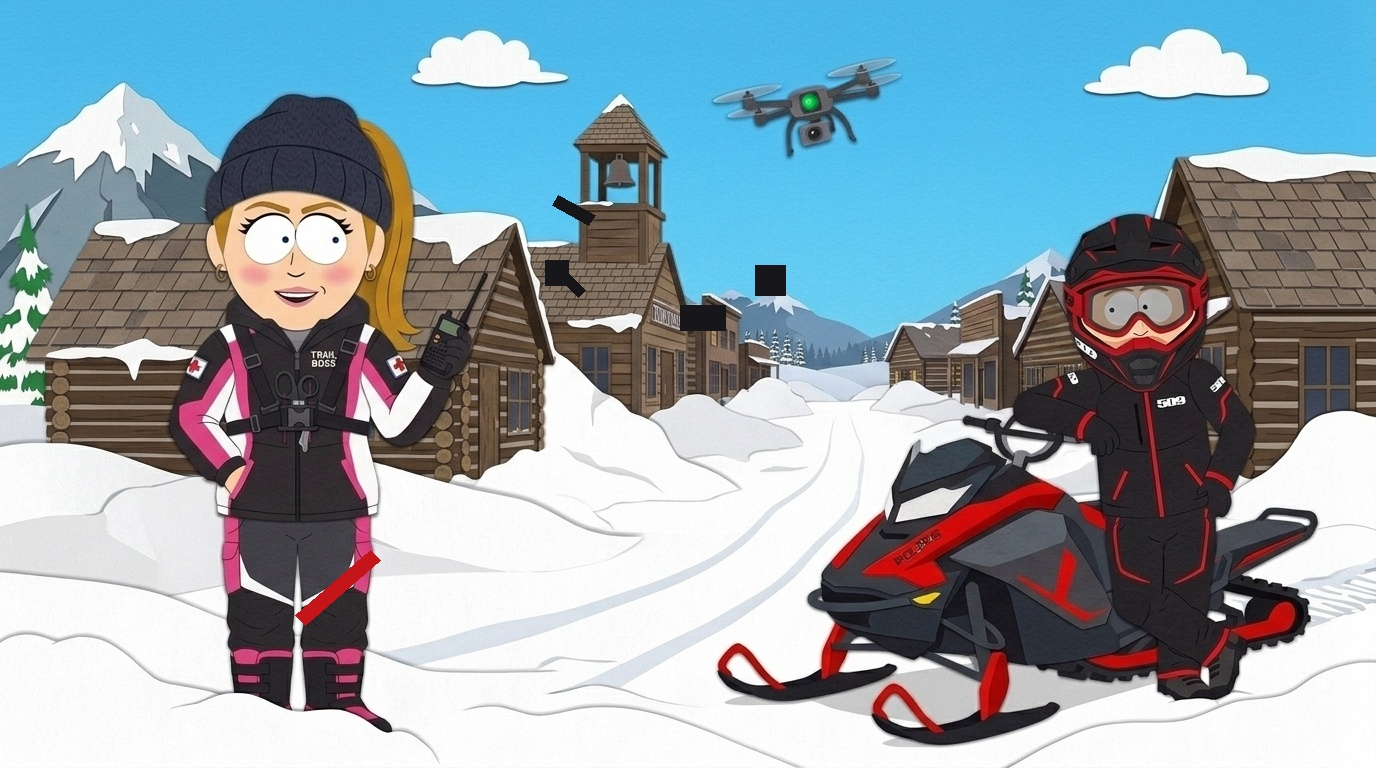
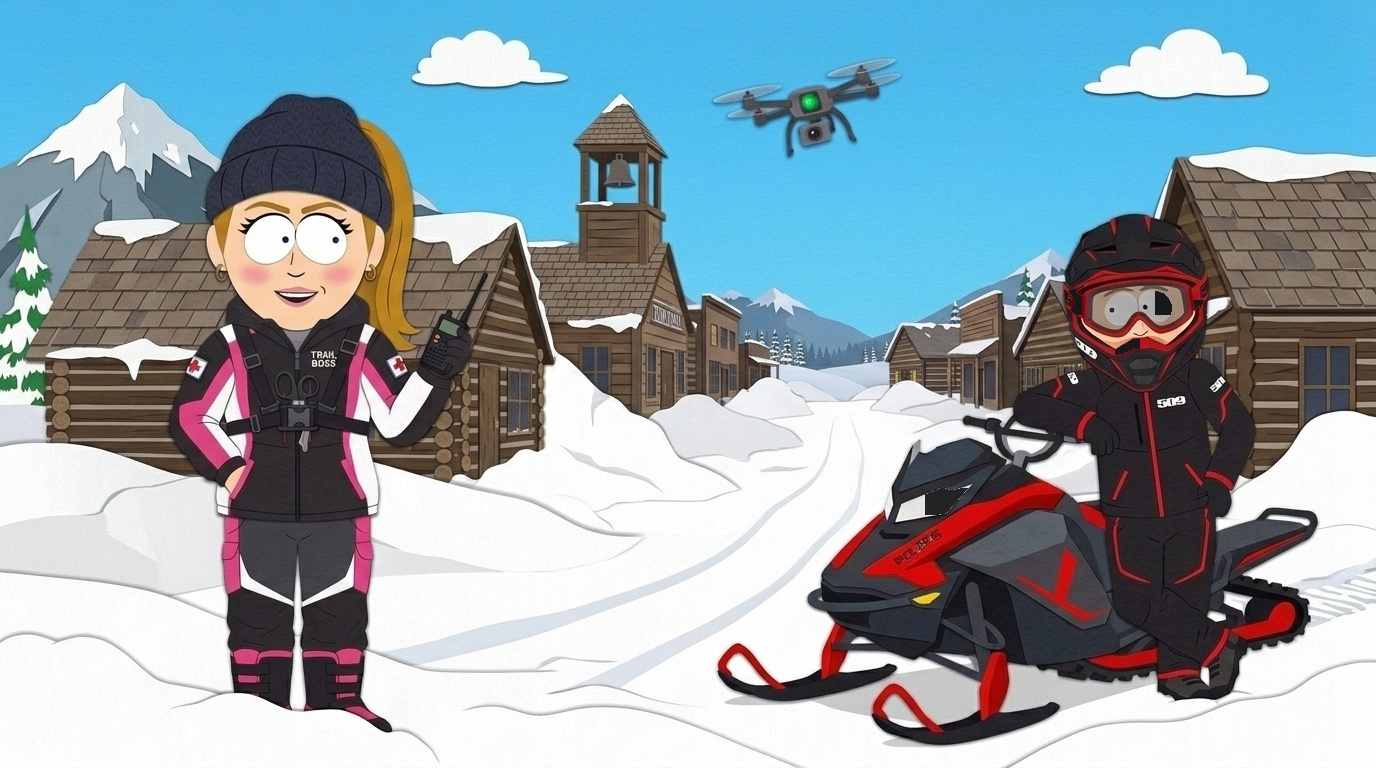
Restore and publish clean Shots 1.2, 4.2, and 5.1 brand-free

diff --git a/scenes.html b/scenes.html
@@ -108,8 +108,7 @@ footer p{margin:0;opacity:.85;font-size:15px}
     </article>
 
     <!-- Shot 1.2 -->
-    <!-- HIDDEN pending logo fix (Shot 1.2)
-<article class="shot-card">
+    <article class="shot-card">
       <div class="shot-media">
         <img src="scene-1-2.jpg" alt="Shot 1.2: The Big Shop Interior Master" loading="lazy">
       </div>
@@ -121,7 +120,6 @@ footer p{margin:0;opacity:.85;font-size:15px}
       <p class="shot-desc">Anvill locks down his custom black-and-red mountain sled in the shop bay with yellow ratchet straps. Ridge Glider sips boiling coffee in his helmet and peak-reflection goggles, while Angel monitors telemetry from the steel workbench in her miniature dial-lace boots.</p>
       <blockquote class="quote"><b>Angel:</b> "Current telemetry on Tincup Pass: fourteen below, sustained winds forty-two knots, and the avalanche advisory is simply: 'DON'T.'"</blockquote>
     </article>
-    -->
 
     <!-- Shot 1.5 -->
     <article class="shot-card">
@@ -264,8 +262,7 @@ footer p{margin:0;opacity:.85;font-size:15px}
     </article>
 
     <!-- Scene 4, Shot 4.2 -->
-    <!-- HIDDEN pending logo fix (Shot 4.2)
-<article class="shot-card">
+    <article class="shot-card">
       <div class="shot-media">
         <img src="scene-4-2.jpg" alt="Shot 4.2: Woody's Monster Deadlift" loading="lazy">
       </div>
@@ -277,7 +274,6 @@ footer p{margin:0;opacity:.85;font-size:15px}
       <p class="shot-desc">Hillbilly's clunker shreds a drive belt in waist-deep powder. Woody calmly steps into the snow trench and bare-hand deadlifts the entire 450-pound snowmobile waist-high with raw timber-bucking strength, holding it rock-steady while Anvill drops to his knees swapping the belt NASCAR-pit-crew style.</p>
       <blockquote class="quote"><b>Woody (holding 450-lb sled waist-high):</b> "Hurry up, Anvill. Arms are gettin' cold. Still got that cord of seasoned lodgepole if you change your mind, Ridge."<br><b>Hillbilly (holding baling wire):</b> "Told ya Woody was good for somethin'! Best wood hauler in Park County!"</blockquote>
     </article>
-    -->
 
     <!-- Scene 4, Shot 4.3 -->
     <article class="shot-card">
@@ -294,8 +290,7 @@ footer p{margin:0;opacity:.85;font-size:15px}
     </article>
 
     <!-- Scene 5, Shot 5.1 -->
-    <!-- HIDDEN pending logo fix (Shot 5.1)
-<article class="shot-card">
+    <article class="shot-card">
       <div class="shot-media">
         <img src="scene-5-1.jpg" alt="Scene 5, Shot 5.1: Arrival in Snowbound Tincup" loading="lazy">
       </div>
@@ -307,7 +302,6 @@ footer p{margin:0;opacity:.85;font-size:15px}
       <p class="shot-desc">The convoy conquers the brutal 12,154 ft Divide and arrives in the silent ghost town of Tincup, completely buried in 10 feet of snowpack. Trail Boss conducts the final roll call beside her pink-and-black sled while Anvill in his black-and-red riding gear leans against his mountain sled.</p>
       <blockquote class="quote"><b>Trail Boss (into radio):</b> "Final roll call: Every single rider accounted for. Nobody left on the Divide."<br><b>Anvill:</b> "Told ya my belt setup would hold, Boss. Now where's the hot coffee?"</blockquote>
     </article>
-    -->
 
     <!-- Scene 6, Shot 6.1 -->
     <article class="shot-card">
